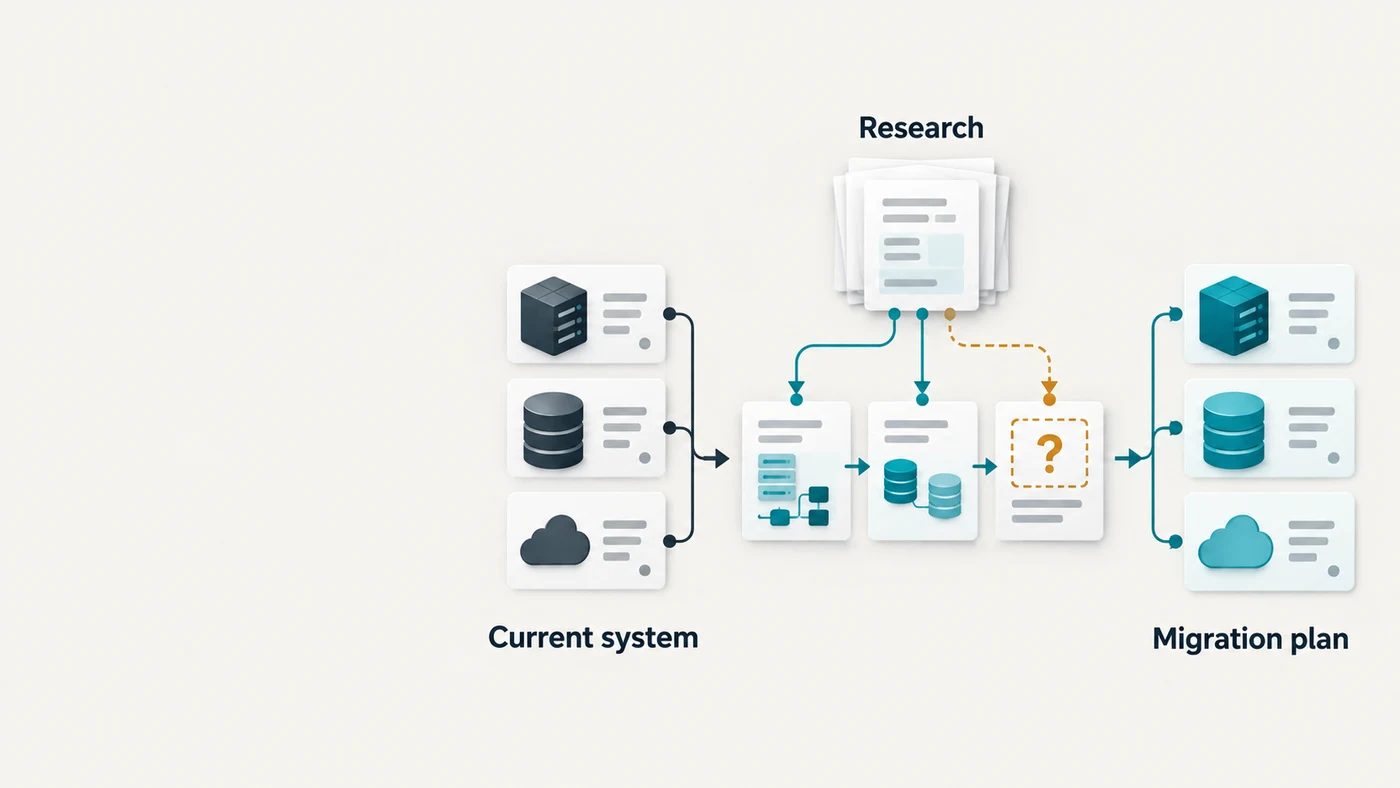
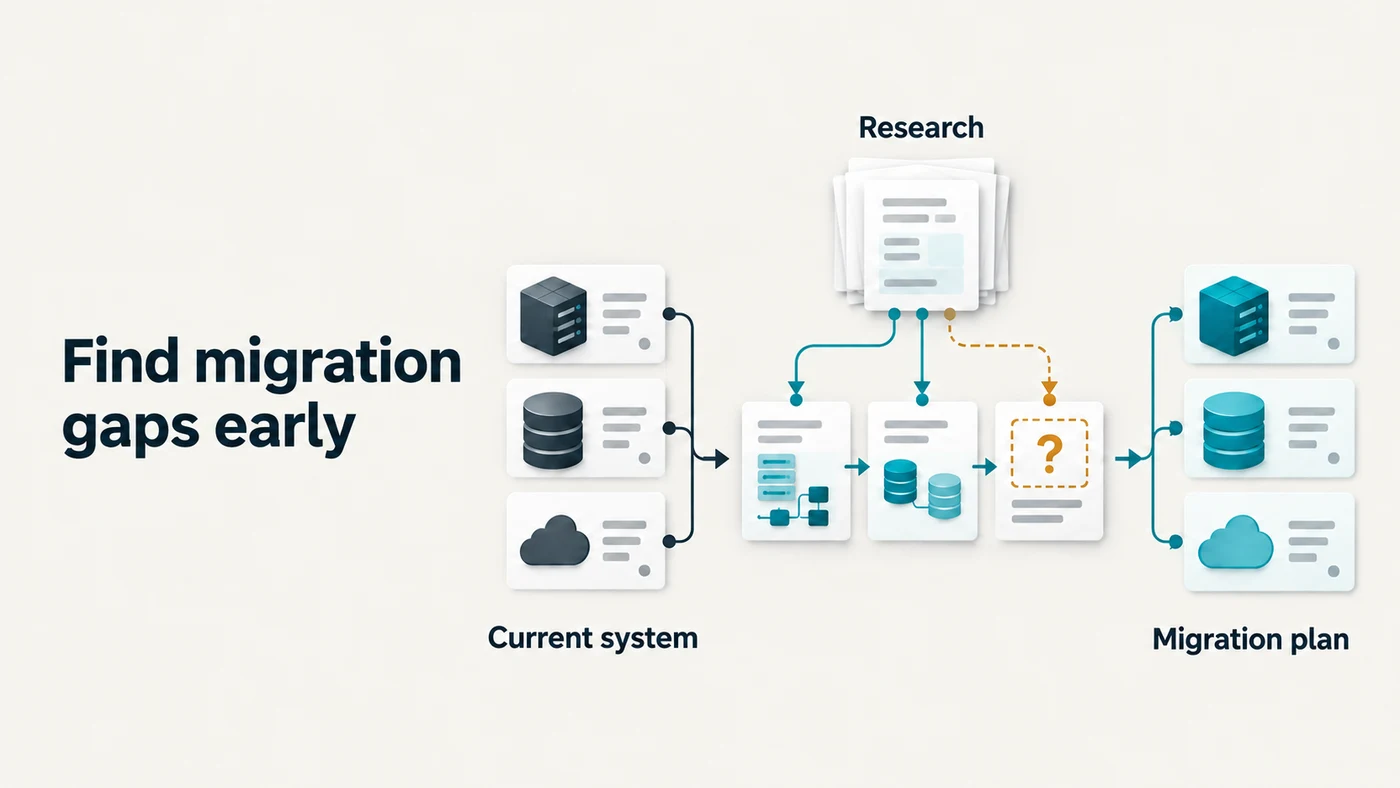
Refresh public copy and add use-case image headlines

diff --git a/README.md b/README.md
@@ -10,9 +10,8 @@ you can read, challenge, and use in your next decision.
 
 ![rSEARCH: a question flows through a choice of Codex or Claude into an evidence dossier with linked sources and an unanswered question.](assets/hero.webp)
 
-[Get started](#get-started) · [Download v0.2.1](https://github.com/frdyx/rSEARCH/releases/tag/v0.2.1) · [Installation guide](docs/installation.md) · [How it works](#how-it-works)
+[Get started](#get-started) · [Download v0.2.2](https://github.com/frdyx/rSEARCH/releases/tag/v0.2.2) · [Installation guide](docs/installation.md) · [How it works](#how-it-works)
 
-[![Verify](https://github.com/frdyx/rSEARCH/actions/workflows/ci.yml/badge.svg)](https://github.com/frdyx/rSEARCH/actions/workflows/ci.yml)
 [![License: MIT](https://img.shields.io/badge/license-MIT-007991)](LICENSE)
 
 ## Make the next decision with clearer evidence
@@ -28,24 +27,24 @@ claim true or guarantee that a citation supports it.
 <table>
 <tr>
 <td width="50%">
-<img src="assets/technology-selection.webp" alt="Technology options flow into an evidence comparison and a decision with an unresolved alternative." width="440">
+<img src="assets/technology-selection.webp" alt="Choose a technology: options flow into an evidence comparison and a decision with an unresolved alternative." width="440">
 <h3>Choose a technology</h3>
 <p>Check capabilities, compatibility, and licence sources before you commit to a dependency.</p>
 </td>
 <td width="50%">
-<img src="assets/migration-planning.webp" alt="Research connects a current system to a migration plan and exposes an unanswered assumption." width="440">
+<img src="assets/migration-planning.webp" alt="Find migration gaps early: research connects a current system to a migration plan and exposes an unanswered assumption." width="440">
 <h3>Find migration gaps early</h3>
 <p>Separate documented constraints from assumptions that still need investigation.</p>
 </td>
 </tr>
 <tr>
 <td>
-<img src="assets/interface-research.webp" alt="Controller-navigation references become researched patterns that inform a proposed interface direction." width="440">
+<img src="assets/interface-research.webp" alt="Research an interaction: controller-navigation references become researched patterns that inform a proposed interface direction." width="440">
 <h3>Research an interaction</h3>
 <p>Use prior art to inform a design direction, with questions left visible for later testing.</p>
 </td>
 <td>
-<img src="assets/source-audit.webp" alt="Two matching sources collapse into one shared origin while an independent source follows a separate path into a dossier." width="440">
+<img src="assets/source-audit.webp" alt="Trace the claim: two matching sources collapse into one shared origin while an independent source follows a separate path into a dossier." width="440">
 <h3>Trace the claim</h3>
 <p>Audit sources and distinguish independent support from one origin repeated.</p>
 </td>
@@ -77,12 +76,12 @@ lets you produce a real dossier against official Node.js documentation.
 
 ### Pick your environment
 
-| Environment | Installation | Status |
-|---|---|---|
-| Codex CLI or app | CLI runtime plus optional operator skill/plugin | Native Codex engine; Windows live smoke passed |
-| Claude Code | CLI runtime plus optional Claude plugin | Native Claude engine; Windows live smoke passed |
-| Claude Desktop | [Desktop extension download](https://github.com/frdyx/rSEARCH/releases/download/v0.2.1/rsearch-0.2.1.mcpb) | Windows installation and full research passed with both Claude and Codex; macOS app test pending ([details](docs/validation.md)) |
-| Another app with local MCP support | [Standard MCP configuration](docs/installation.md#other-local-mcp-clients) | Conditional on the client's local-process support |
+| Environment | Installation |
+|---|---|
+| Codex CLI or app | CLI runtime plus optional operator skill/plugin |
+| Claude Code | CLI runtime plus optional Claude plugin |
+| Claude Desktop | [Desktop extension](https://github.com/frdyx/rSEARCH/releases/download/v0.2.2/rsearch-0.2.2.mcpb), with Claude or Codex as your provider |
+| Other apps with local MCP support | [Standard MCP configuration](docs/installation.md#other-local-mcp-clients) |
 
 Standalone use requires **Node.js 22+** and an installed, authenticated
 **Codex CLI or Claude Code**. You need only the provider you choose. The desktop
@@ -92,7 +91,7 @@ but still needs the chosen provider CLI installed and signed in.
 Install the versioned CLI package from GitHub Releases:
 
 ```bash
-npm install --global https://github.com/frdyx/rSEARCH/releases/download/v0.2.1/rsearch-0.2.1.tgz
+npm install --global https://github.com/frdyx/rSEARCH/releases/download/v0.2.2/rsearch-0.2.2.tgz
 rsearch doctor --provider claude
 ```
 
@@ -194,8 +193,8 @@ still need review. File existence is not proof of a claim about a file.
 [Open an issue](https://github.com/frdyx/rSEARCH/issues) with the version,
 provider, platform, and a minimal example. Review logs before attaching them.
 
-See [CONTRIBUTING.md](CONTRIBUTING.md), the [validation record](docs/validation.md),
-and the [release guide](docs/releases.md). Maintained by [FRDY](https://github.com/frdyx).
+See [CONTRIBUTING.md](CONTRIBUTING.md) and the [release guide](docs/releases.md).
+Maintained by [FRDY](https://github.com/frdyx).
 
 Licensed under [MIT](LICENSE). Bundled third-party dependencies retain their
 own licences; the MCPB manifest schema attribution is in [schemas/MCPB-LICENSE](schemas/MCPB-LICENSE).

diff --git a/docs/installation.md b/docs/installation.md
@@ -10,10 +10,6 @@ Install and sign in to your chosen CLI using the provider's official guide:
 - [Codex setup](https://learn.chatgpt.com/docs/quickstart)
 - [Claude Code setup](https://code.claude.com/docs/en/setup)
 
-The release has live smoke evidence for Codex CLI **0.153.4** and Claude Code
-**2.1.299** on Windows. Use these or newer versions with compatible event
-formats. Unsupported flags or event shapes fail explicitly.
-
 Standalone rSEARCH requires Node.js **22+**. Check `node --version` first.
 The package does not collect credentials. Authenticate through the provider's
 own CLI. `doctor` checks installation; authentication is checked on a live run.
@@ -21,7 +17,7 @@ own CLI. `doctor` checks installation; authentication is checked on a live run.
 ## Standalone CLI
 
 ```bash
-npm install --global https://github.com/frdyx/rSEARCH/releases/download/v0.2.1/rsearch-0.2.1.tgz
+npm install --global https://github.com/frdyx/rSEARCH/releases/download/v0.2.2/rsearch-0.2.2.tgz
 rsearch doctor --provider claude
 ```
 
@@ -44,9 +40,8 @@ By default, the worker carries the model choice from your provider settings.
 Desktop model aliases are not necessarily supported by their CLI. A failure
 does not trigger a fallback; supply a supported model explicitly when needed.
 For Codex, check the CLI's `/model` picker for models available to your current
-login. Historical smoke-test model names are records, not permanent setup
-defaults. Availability can change by date, sign-in method and account; see the
-[official model documentation](https://learn.chatgpt.com/docs/models).
+login. See the [official model documentation](https://learn.chatgpt.com/docs/models)
+for model choices.
 
 You can also download the source ZIP, extract it, and run `npm ci --omit=dev
 --ignore-scripts` from its root. Use `node bin/rsearch.mjs` in place of the
@@ -101,7 +96,7 @@ and start a new chat. The GitHub release is not an official directory listing.
 ## Claude Desktop
 
 1. Install and authenticate Claude Code or Codex CLI.
-2. Download [rsearch-0.2.1.mcpb](https://github.com/frdyx/rSEARCH/releases/download/v0.2.1/rsearch-0.2.1.mcpb).
+2. Download [rsearch-0.2.2.mcpb](https://github.com/frdyx/rSEARCH/releases/download/v0.2.2/rsearch-0.2.2.mcpb).
 3. In Claude Desktop, open **Settings → Extensions → Advanced settings → Install Extension**.
 4. Choose the downloaded bundle. Enter `claude` or `codex` as the provider.
 5. Leave the model override blank unless you need an explicit CLI-supported model.
@@ -112,22 +107,13 @@ The bundle includes rSEARCH's production dependencies and uses the host's Node
 runtime. It requires Node 22+ and a provider CLI on the environment's PATH.
 It does not install or sign in to the provider for you.
 
-Installation, doctor, asynchronous research and dossier reading were checked
-in Claude Desktop **2.37337.1 on Windows**, using bundled Node **24.21.0**.
-Both providers completed the same web-only HTTP-client comparison brief:
+rSEARCH works in Claude Desktop with either Claude or Codex as the research
+provider. The provider you configure performs the research and returns a dossier
+through the extension's tools.
 
-| Provider | CLI / model | Completed retrievals | Findings |
-|---|---|---|---|
-| Claude | Claude Code 2.1.299; configured provider model, no override | 14 | 11 |
-| Codex | Codex CLI 0.153.4; explicit `gpt-6-astra` | 7 | 11 |
-
-Both dossiers were read through the app and re-verified locally. macOS app
-installation remains untested; offline runtime tests are separate.
-
-Version 0.2.1 fixes v0.2.0's unresolved blank-model setting. After updating,
-run doctor and check the reported version and `modelOverride` (`null` when blank)
-before starting research. If the old version is still reported, restart Claude
-Desktop and open a new chat. See the [validation record](validation.md).
+Run doctor before your first brief. It reports the selected provider and
+`modelOverride` (`null` when blank). After updating the extension, restart
+Claude Desktop and open a new chat to load the new version.
 If an override change is not reflected in doctor, reopen the extension's
 configuration, enter the model value, save, restart Desktop and use a new chat.
 Doctor verifies the configured override and installed CLI; it does not establish
@@ -158,9 +144,8 @@ context. Repeat it for more roots. Add `--model` for an explicit model override.
 
 The five tools are `doctor`, `research_start`, `research_status`,
 `research_read`, and `research_cancel`. Start returns a run ID immediately;
-poll status at reasonable intervals and read results only after completion.
-Clients must support local process launches. These clients have not all been
-tested, and the toolkit is not a remote hosted research service.
+check progress at reasonable intervals and read results after completion.
+Use a client that supports local stdio MCP servers and can launch Node.js.
 
 ## Uninstall
 

diff --git a/docs/assets.md b/docs/assets.md
@@ -15,13 +15,13 @@ The public visual system uses warm off-white, graphite, teal and restrained ambe
 | [Social preview](../assets/social-preview.png) | GitHub link preview | PNG, 1280 × 640 |
 | [Icon](../assets/icon.svg) | Desktop extension identity | Editable SVG; [PNG](../assets/icon.png) |
 
-The four scene illustrations reserve the left 35% for headlines. Their functional labels stay inside the diagram area. The hero and social preview include the brand headline. README image alt text explains the mechanism.
+The four use-case cards carry their matching two-line title in the left 35%, with the explanatory illustration and functional labels on the right. Titles use bold graphite sans-serif type with consistent scale and spacing. The hero and social preview include the brand headline. README image alt text names the use case and explains the mechanism.
 
 ## Reproduce or revise
 
-[specifications.json](../assets/specifications.json) records the prompts, reference relationships, palette, file names and alt text. Original generated PNGs are retained in [assets/raw](../assets/raw). Bitmap art was generated with OpenAI imagegen and inspected before export. A new generation can vary; the source files make the published exports reproducible.
+[specifications.json](../assets/specifications.json) records the prompts, reference relationships, palette, file names and alt text. Original generated PNGs and the title editions are retained in [assets/raw](../assets/raw). Each card records its exact headline, line breaks and edit prompts. Bitmap art and headline edits use OpenAI imagegen. A new generation can vary; the saved source files make the published exports reproducible.
 
-Run `npm ci --ignore-scripts`, then `npm run build:assets`. This converts the originals to compact WebP exports, makes the social preview exactly 1280 × 640, and rebuilds the SVG/PNG architecture and icon from [build-assets.mjs](../scripts/build-assets.mjs).
+Run `npm ci --ignore-scripts`, then `npm run build:assets`. This converts the selected sources from the specifications to compact WebP exports, makes the social preview exactly 1280 × 640, and rebuilds the SVG/PNG architecture and icon from [build-assets.mjs](../scripts/build-assets.mjs).
 
 Edit the vector source for architecture changes so arrows and labels correspond to the runtime. Use imagegen for changes to the bitmap illustrations, with the technology-selection image as the series reference.
 

diff --git a/docs/releases.md b/docs/releases.md
@@ -23,12 +23,10 @@ The desktop builder validates the upstream MCPB 0.3 manifest schema and packs
 a standard ZIP with only production dependencies. No signing key is required.
 The archive is unsigned; organization policies may require signed extensions.
 
-Run bounded provider smoke tests deliberately and sanitize any new fixture.
-Record CLI/model/platform versions and failures. A live pass on one OS does not
-establish that every desktop host is tested. Keep Claude Desktop marked preview
-until installation and a full research run succeed in the actual app. Name the
-tested app, OS and provider versions explicitly. Publish fixes under a new patch
-version rather than replacing historical release archives.
+Run live provider checks deliberately: they use normal provider usage. Review
+and sanitize any new event fixture before committing it. Keep release copy
+focused on the workflow, setup and changes users need. Publish updates under a
+new version rather than replacing historical release archives.
 
 Before publishing, inspect source/package contents for private material, run the
 CI matrix, check README rendering, and verify release URLs. Attach the four

diff --git a/docs/data-handling.md b/docs/data-handling.md
@@ -14,7 +14,7 @@ It is not an offline model or a guarantee that data stays on your computer.
 
 Review logs before sharing them in issues. Remove account details, private
 paths, sensitive source content and queries that should not be public. The
-repository's live-smoke fixtures omit provider initialization, session details,
+repository's sanitized event fixtures omit provider initialization, session details,
 reasoning and retrieved page bodies while retaining the necessary event shapes.
 
 The worker treats web page instructions as untrusted data. That is a workflow

diff --git a/CONTRIBUTING.md b/CONTRIBUTING.md
@@ -23,7 +23,8 @@ An unknown event format must fail closed. Do not infer retrieval from prose.
 
 Evidence policy changes need tests demonstrating what the new tier establishes.
 Do not promote file existence to verification, or count extra workers as
-independent channels. Documentation must state what remains unverified.
+independent channels. Document what each evidence level establishes and its
+limits.
 
 For assets, preserve the explanatory graphic direction and include alt text.
 Keep the workflow claims accurate and provide compact web exports. See

diff --git a/skills/rsearch-operator/references/evidence-contract.md b/skills/rsearch-operator/references/evidence-contract.md
@@ -4,7 +4,7 @@ The provider's recorded events establish retrieval activity. Findings carry a
 claim, source, source kind, proposed tier, falsifier and limitations. The
 verifier derives source-origin groups and assigns the final evidence level.
 
-| Level | Meaning in v0.2.0 |
+| Level | Meaning |
 |---|---|
 | T1_proposed | No usable source origin was established. |
 | T3_observed | Cited evidence without independent-channel corroboration. |
